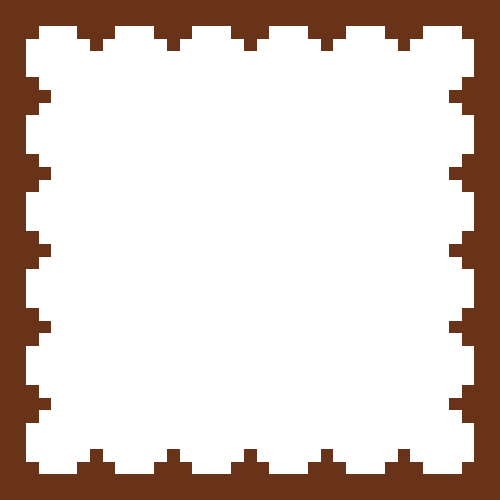
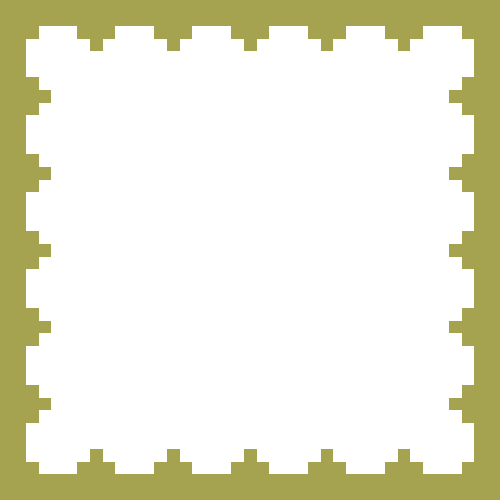
Removed unused assets

Changed region(s): [[0.0, 0.0, 1.0, 1.0]]

diff --git a/styles/styles.css b/styles/styles.css
@@ -89,7 +89,7 @@ button:active {
     pointer-events: none;
 
     border: 2rem solid transparent;
-    border-image-source: url(../assets/border-filled-3.png);
+    border-image-source: url(../assets/border-filled.png);
     border-image-slice: 90;
     border-image-repeat: round;
 
